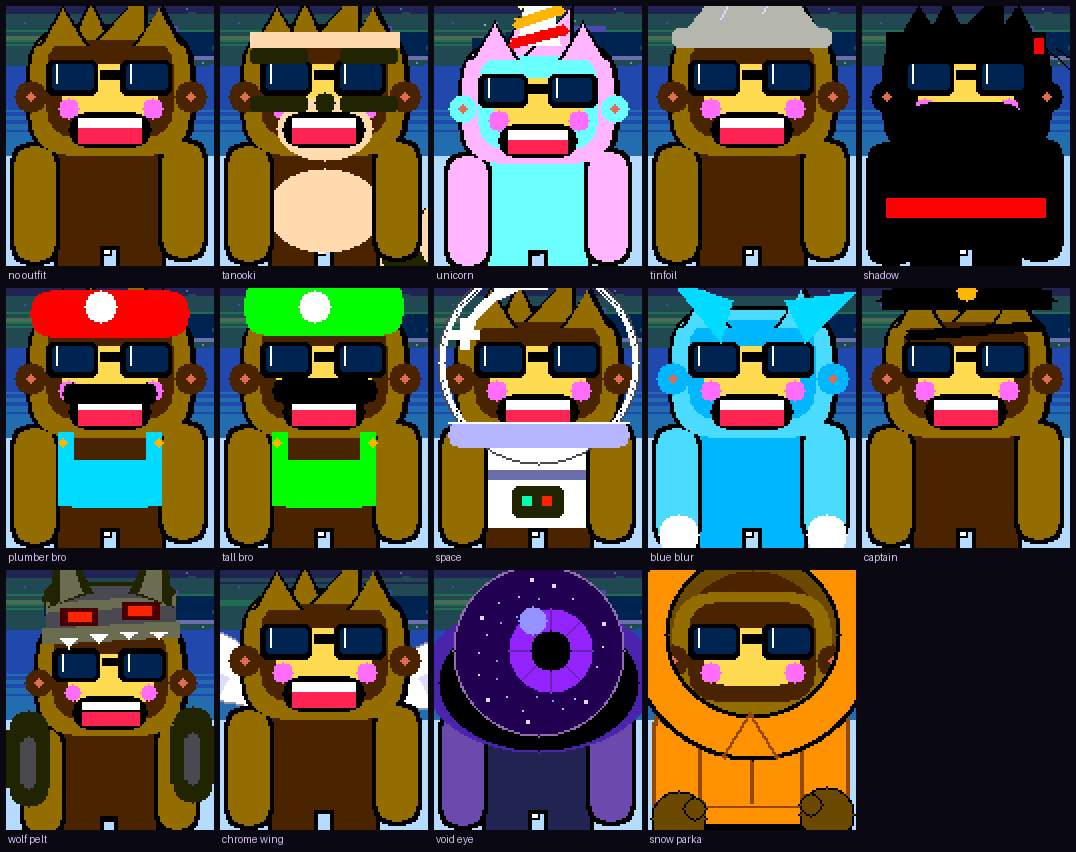
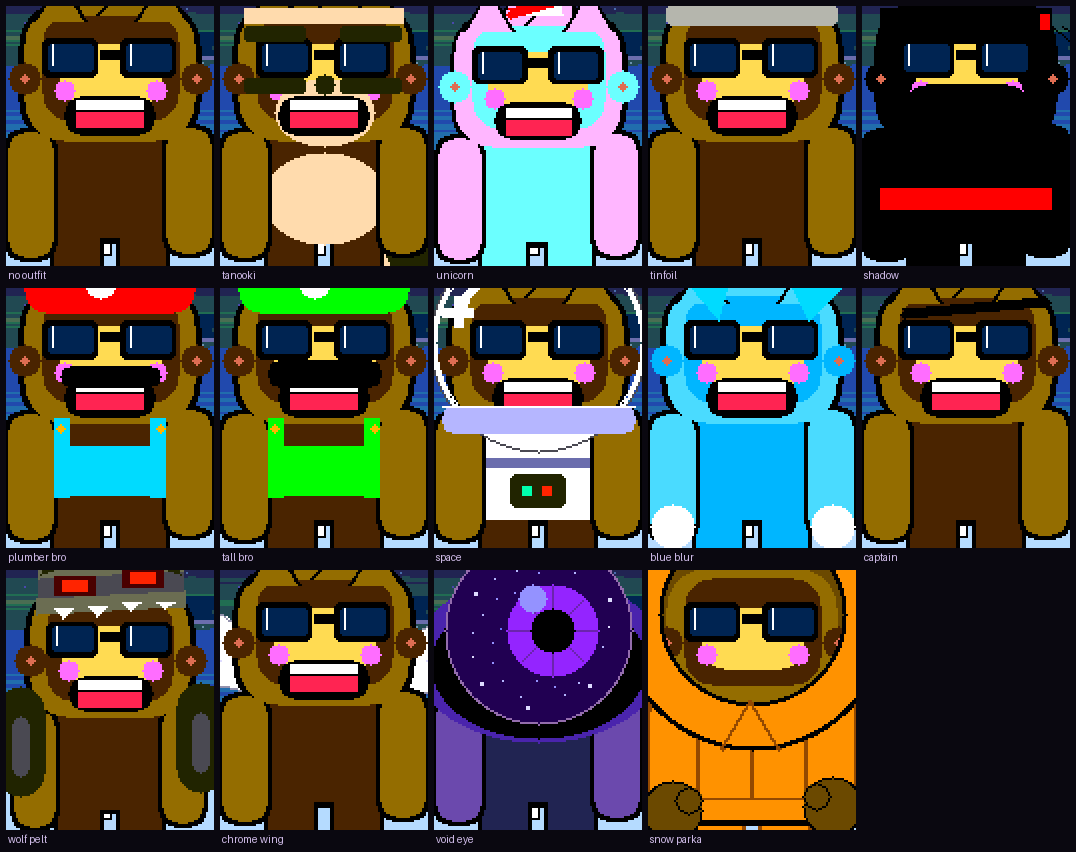
Spend the bubble row he stopped needing
2.679 to 2.875 on CLEAR, about 7%, and 30% over where he was before the
shadow came off.

The room was already there and nobody had claimed it. bubbleRowH reserves
space BELOW topY for a speech bubble, and it was sixteen rows because that
is what a one-liner needs. But the one-liner rises now -- it climbs into
the rows the title bar used to own and lands at 1..15, which ends one row
ABOVE topY. It stopped needing anything down there several commits ago, so
sixteen rows sat empty and Squachy stood underneath them. One row of air
is all that was worth keeping.

The walkthrough keeps its full 52. That bubble never rises -- far too wide
to clear the corner buttons -- so it really does sit below topY and he
really does have to stand under it. Checked on a rendered onboarding
frame: unchanged.

CREST_REACH goes 4 to 8 with it. It was 4 back when a 14-unit spike stood
over everything and reserving for it was hopeless, so the rule was to
protect the small side tufts and let the spike clip. With the spike gone
the cowlick's tall tuft is the highest thing he draws at 7.2 units, and 8
rounds that up -- a guarantee that is a fraction short is not a guarantee.
It costs almost nothing now because the top is no longer where he runs out
of room. The waving hand at 16 stays free to clip; it is a gesture, not
the character.

Honest cost: a one-liner that cannot rise -- wrapped, or beside a corner
button -- now overlaps the top few rows of his skull rather than stopping
[…]

diff --git a/src/squachy.cpp b/src/squachy.cpp
@@ -2464,26 +2464,25 @@ static const int BASE_HEIGHT_NOSHADOW = 56;
 // about 16 (measured: arm top at row 3 with the anchor at 37 at scale
 // 2.206, so 15.4 rounded up).
 //
-// Neither is what we reserve for. There is a third number: his SIDE TUFTS,
-// the two small shaggy triangles either side of the big centre spike, and
-// they only reach 4 (apex at hh - S(4), against the spike's hh - S(14)).
+// Neither is what we reserve for now that the centre spike is gone. The
+// cowlick's tall tuft is the highest thing he draws, at 80% of nine units,
+// so 7.2 -- and 8 here rounds that up rather than down, because a guarantee
+// that is a fraction short is not a guarantee.
 //
-// So the guarantee is the tufts, and the spike and the hand are both free to
-// run off the top. Reserving for either of them costs him size permanently
-// to protect a few rows of one pointed thing, and he is worth more big. What
-// this still protects is the part that reads as his head -- the skull, the
-// face, the shades, and the fringe either side of the spike.
+// This was 4 for a while, back when a 14-unit spike stood over everything
+// and reserving for it was hopeless, so the rule was to protect only the
+// small side tufts and let the spike run off the top. With the spike gone
+// there is nothing left worth sacrificing: 8 covers his whole silhouette,
+// and it costs almost nothing because the top is no longer where he runs
+// out of room.
 //
-// At CLEAR's band that lands the spike's tip flush on row 0 at rest, so it
-// is not so much clipped as exactly used up, and the bob takes it over the
-// edge from there. Not new behaviour at the extreme either: a BOUNCE apex
-// has always put the spike above row 0 at every scale this screen has used,
-// because the hop is 9 units on top of wherever he is standing.
+// Still not the waving hand at 16. That one stays free to clip -- it is a
+// gesture, not the character, and reserving for it costs real size.
 //
-// With this at 4 the top has stopped being the binding constraint at all on
-// CLEAR -- his size now comes off the band bottom and the bubble row above
-// him. The bubble row is what to spend next if he needs to be bigger again.
-static const int CREST_REACH = 4;
+// The bob is on top of all of this and always has been: a BOUNCE apex lifts
+// him 9 units, so his tufts leave the screen at the top of a hop at every
+// scale this screen has ever used.
+static const int CREST_REACH = 8;
 static const int TOP_MARGIN  = 2;   // rows of air we insist on above the tufts
 
 // Draws Squachy at an already-animated anchor (hy = head-top Y for this
@@ -3849,7 +3848,28 @@ void tick(TFT_eSPI& t, int cx, int topY, int availHeight, uint32_t now,
     // it reserves more of that room and he renders correspondingly
     // smaller for the duration — reading the explanation matters more
     // than his size right then.
-    const int bubbleRowH = s_onboardActive ? ONBOARD_BUBBLE_H : 16;
+    // One row, not sixteen, and the bubble is why.
+    //
+    // This reserves space BELOW topY for a speech bubble to sit in. It was
+    // sixteen because that is what a one-liner needs. But the one-liner
+    // rises now (see risenBubbleTop): it climbs into the rows the title bar
+    // used to own and lands at rows 1..15, which ends one row ABOVE topY.
+    // It stopped needing anything down here and nobody moved this, so
+    // sixteen rows sat empty under it and Squachy was pushed down past
+    // them. One row of air is all that is left to keep.
+    //
+    // The walkthrough is the exception and keeps its full reserve. That
+    // bubble is 52 tall and never rises -- it is far too wide to clear the
+    // corner buttons -- so it genuinely does sit below topY, and he
+    // genuinely does have to stand under it.
+    //
+    // The honest cost: a one-liner that CANNOT rise still draws at topY,
+    // and now overlaps the top few rows of his skull instead of stopping
+    // above them. That is the wrapped bubbles and the ones beside a corner
+    // button, drawn after him either way, over a part of his head with
+    // nothing on it -- his face sits well below.
+    static const int BUBBLE_ROW_RISEN = 1;
+    const int bubbleRowH = s_onboardActive ? ONBOARD_BUBBLE_H : BUBBLE_ROW_RISEN;
     // The floor below normally keeps him from going below scale 1.0 --
     // minScale lets a specific call site (the mini-scan-screen cameo)
     // opt into a smaller floor without changing anyone else's default.
